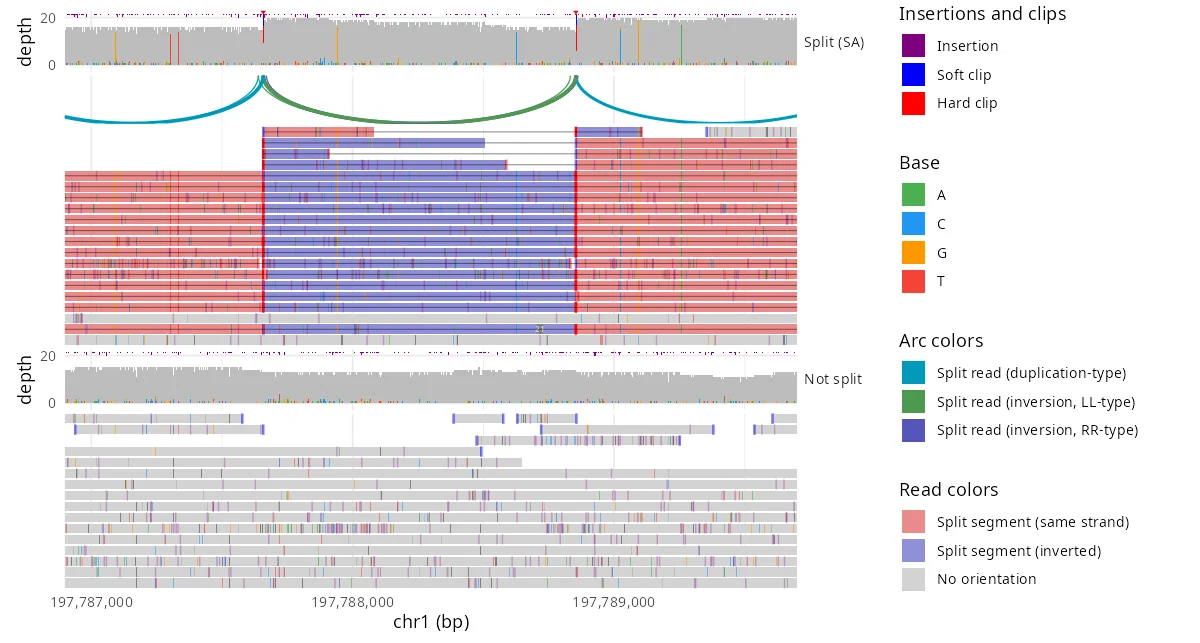
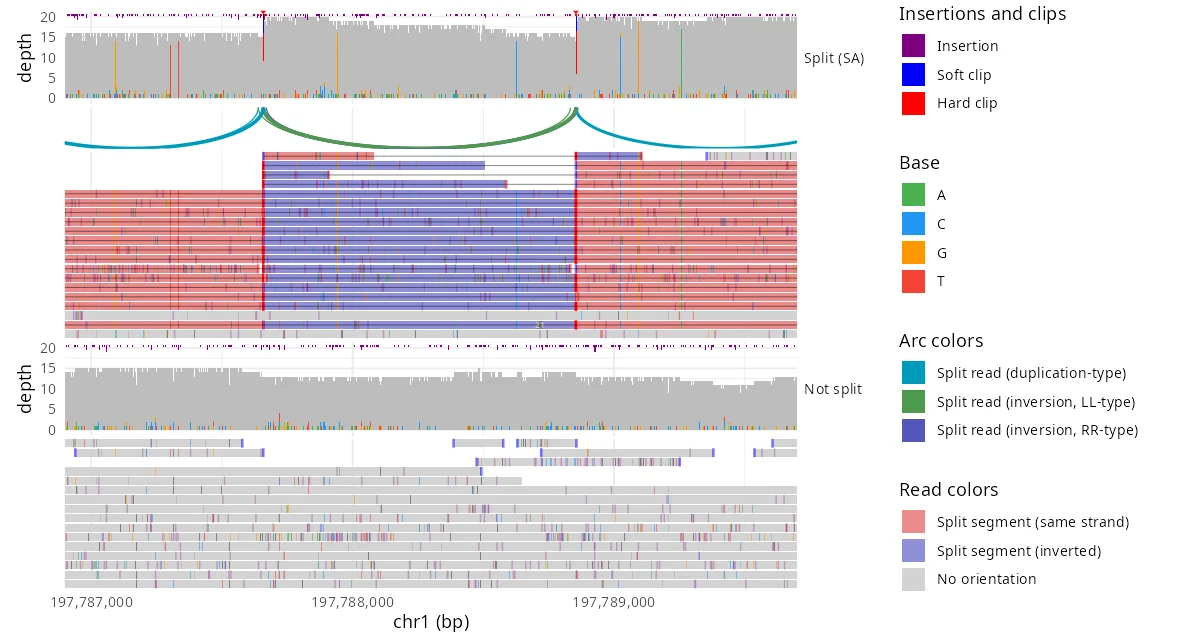
Inversion gallery: the R recipe sets the coverage height jb2export sets

Changed region(s): [[0.0, 0.0311, 0.74, 0.902], [0.3083, 0.0311, 0.4933, 0.0622], [0.6783, 0.0622, 0.74, 0.0933]]

diff --git a/docs/gallery.md b/docs/gallery.md
@@ -165,7 +165,8 @@ The split reads, in their own section above the unsplit ones, are colored invert
 autoplot(jbrowse_alignments(e("hg00151_chr1_inversion.bam"),
   "chr1:197,786,900-197,789,700",
   display = list(unit = "chain", readConnections = list(show = TRUE),
-    color = list(field = "pairOrientation"), facet = list(field = "split"))))
+    color = list(field = "pairOrientation"), facet = list(field = "split"),
+    coverage = list(height = 80))))
 ```
 
 ```sh
